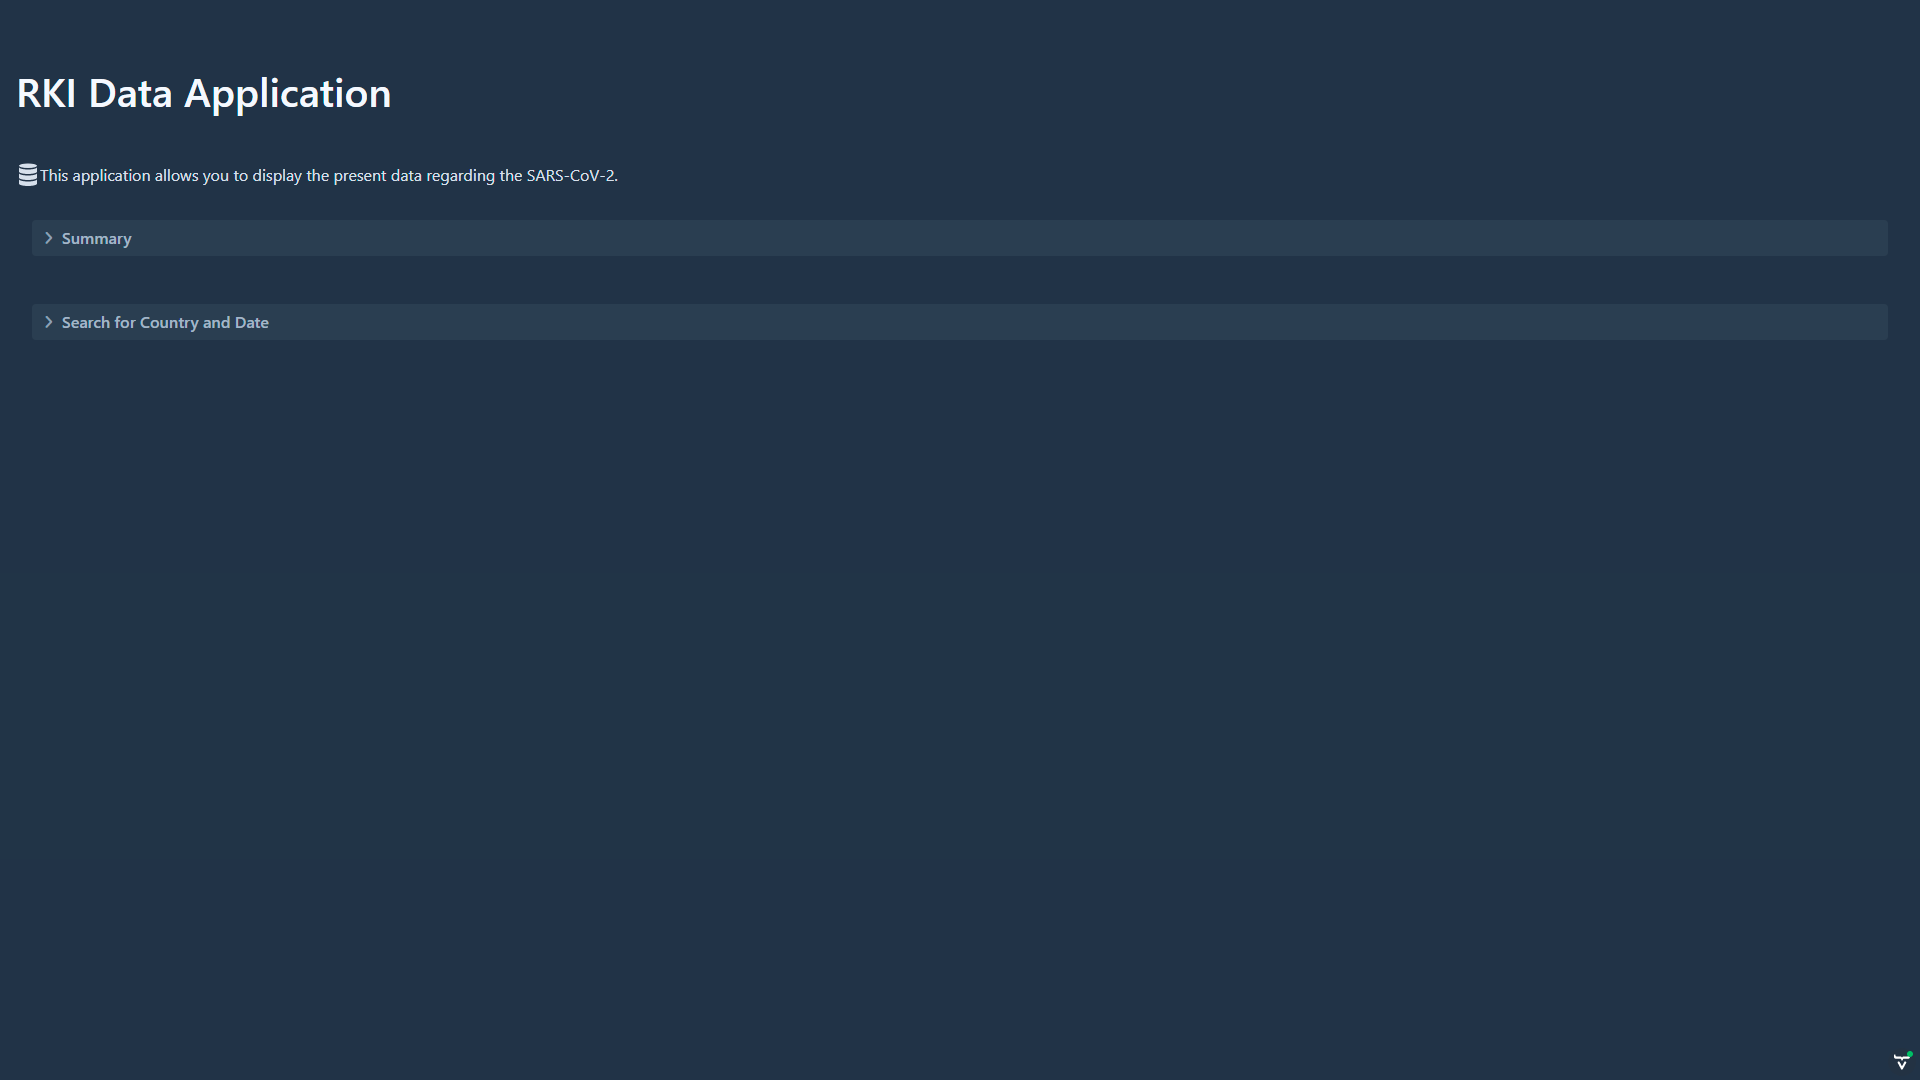
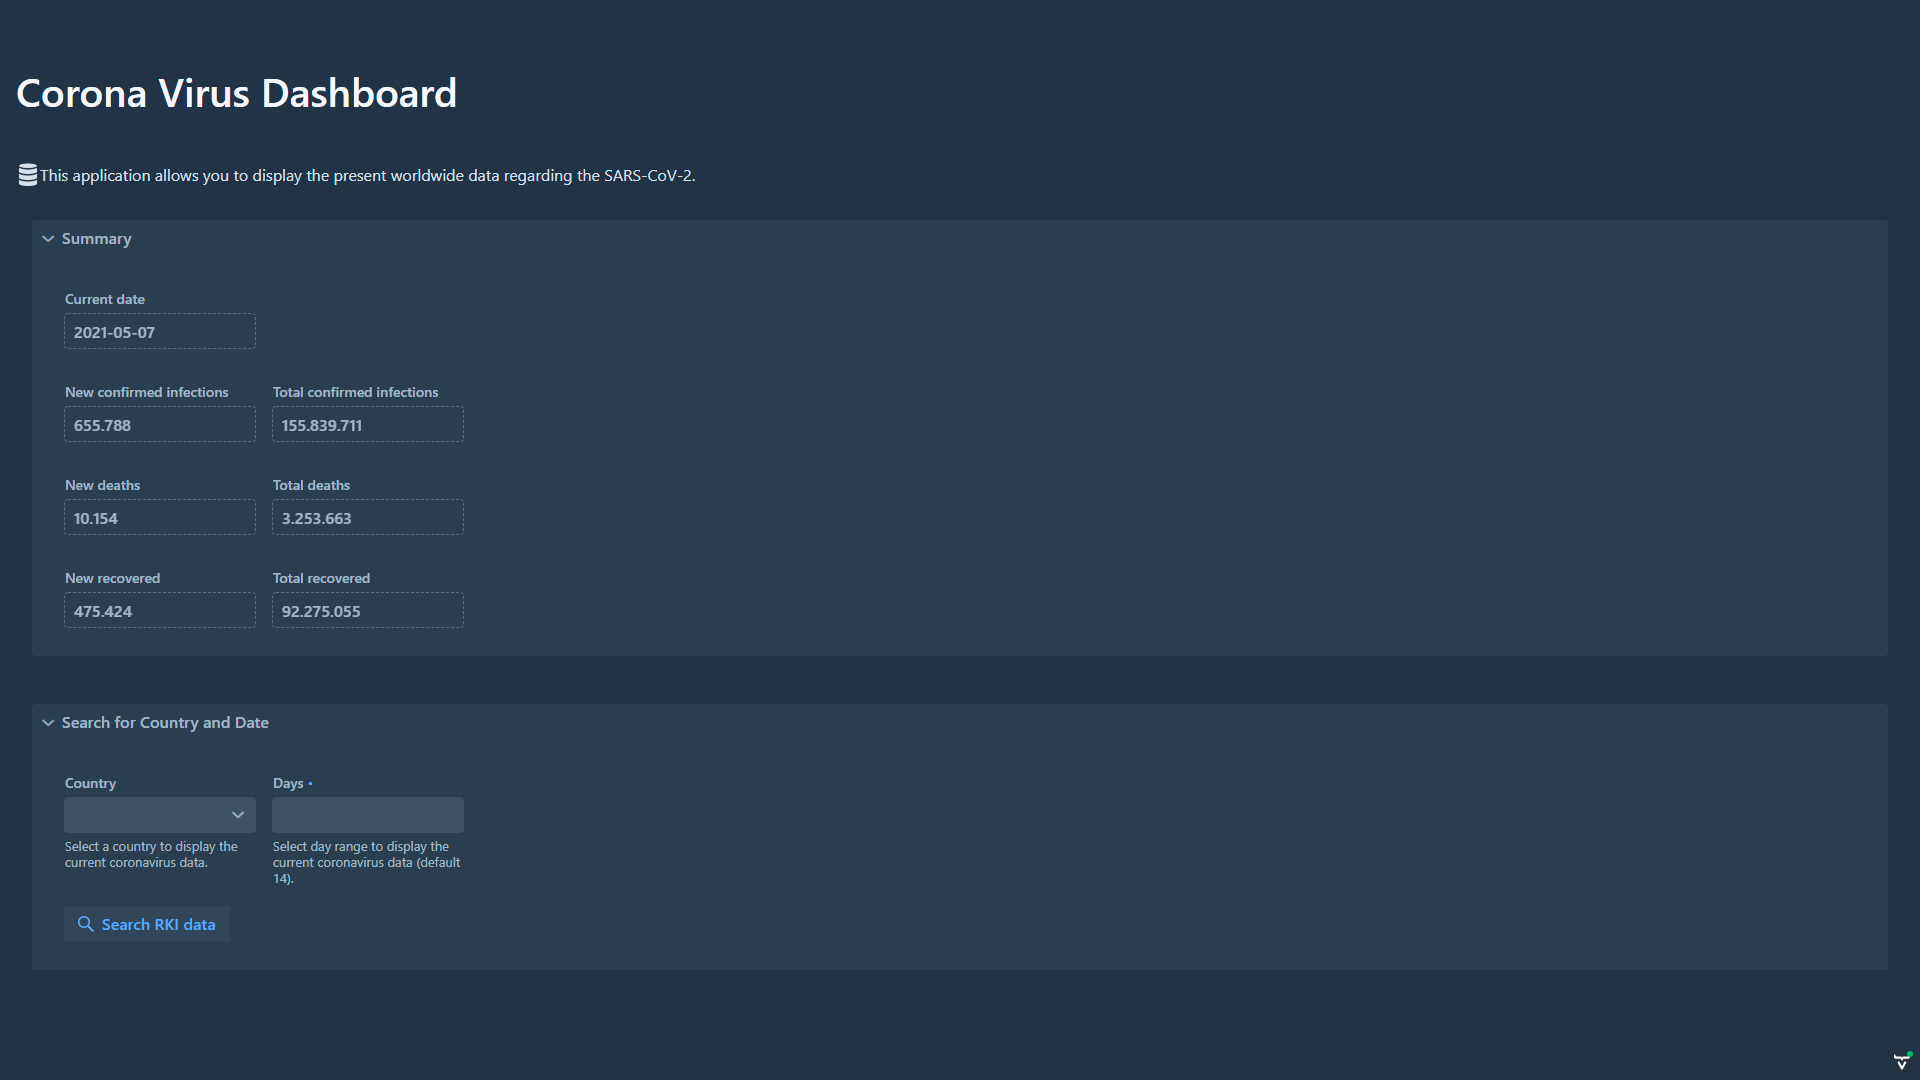
Set page title in browser and main view, updated dashboard png

diff --git a/src/main/java/com/sitrumm/coronarki/gui/views/MainView.java b/src/main/java/com/sitrumm/coronarki/gui/views/MainView.java
@@ -8,6 +8,7 @@ import com.vaadin.flow.component.icon.VaadinIcon;
 import com.vaadin.flow.component.orderedlayout.HorizontalLayout;
 import com.vaadin.flow.component.orderedlayout.VerticalLayout;
 import com.vaadin.flow.component.page.AppShellConfigurator;
+import com.vaadin.flow.router.PageTitle;
 import com.vaadin.flow.router.Route;
 import com.vaadin.flow.theme.Theme;
 import com.vaadin.flow.theme.lumo.Lumo;
@@ -19,6 +20,7 @@ import javax.annotation.PostConstruct;
 @Route
 @Theme(value = Lumo.class, variant = Lumo.DARK)
 @Slf4j
+@PageTitle("Corona Virus Dashboard")
 public class MainView extends VerticalLayout implements AppShellConfigurator {
 
     @Autowired
@@ -30,7 +32,7 @@ public class MainView extends VerticalLayout implements AppShellConfigurator {
     private final CountryAndDateView countryAndDateView;
 
     public MainView() {
-        H1 title = new H1("RKI Data Application");
+        H1 title = new H1("Corona Virus Dashboard");
         HorizontalLayout overview = new HorizontalLayout(title);
         add(overview);
 
